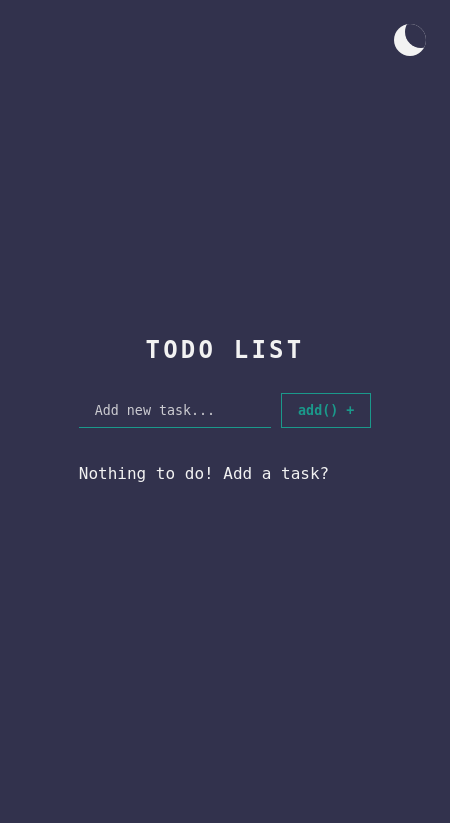
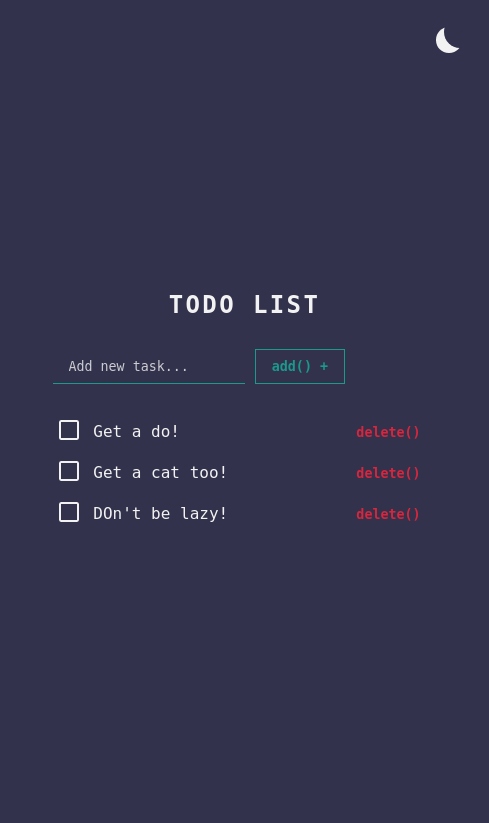
update the screenshot and the readme file

diff --git a/index.html b/index.html
@@ -11,7 +11,7 @@
     <button class="theme-toggler"></button>
     <main class="wrapper flex flex-column gap-m">
       <h2 class="align-center">Todo List</h2>
-      <form action="/" method="post">
+      <form action="/" method="post" class="flex gap-m">
         <!-- Why required attr doesn't work? -->
         <input
           type="text"

diff --git a/styles/styles.css b/styles/styles.css
@@ -113,6 +113,10 @@ button::-moz-focus-inner {
   padding: 0.2rem 0;
 }
 
+form input {
+  flex: 1;
+}
+
 .todo[data-completed="true"] > .todo-text {
   opacity: 0.5;
   transition: opacity 0.125ms linear;

diff --git a/README.md b/README.md
@@ -1,6 +1,6 @@
 # Todo app concept with theme toggler
 
-A small app concept idea just cu sharpen some of my skills
+A small app concept idea just to sharpen some of my skills
 
 ## Table of contents
 
@@ -15,6 +15,8 @@ A small app concept idea just cu sharpen some of my skills
     - [What I learned](#what-i-learned)
     - [Continued development](#continued-development)
       - [For this project](#for-this-project)
+    - [Known Bugs](#known-bugs)
+      - [Solved](#solved)
   - [Author](#author)
 
 ## Overview
